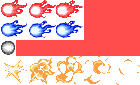
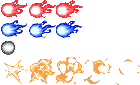
[JOS-57] Projectiles have been merged with the master the bullets now also fire at different rates now too.

diff --git a/FYP_FallenHero/Projectile.cpp b/FYP_FallenHero/Projectile.cpp
@@ -6,8 +6,8 @@ Projectile::Projectile() {		}
 Projectile::Projectile(b2Body* b, sf::Vector2f dir) {
 	b->SetUserData(this);
 	m_box_body = b;
-	
 	m_direction = dir;
+	m_current_state = FIRE;
 
 	init();
 
@@ -15,15 +15,14 @@ Projectile::Projectile(b2Body* b, sf::Vector2f dir) {
 	alineSprite();
 	applySpeed();
 
-	m_current_state = FIRE;
 	m_animator.playAnimation(m_current_state);
 }
 
 Projectile::Projectile(b2Body* b, sf::Vector2f dir, STATE type) {
 	b->SetUserData(this);
 	m_box_body = b;
-
 	m_direction = dir;
+	m_current_state = type;
 
 	init();
 
@@ -31,16 +30,25 @@ Projectile::Projectile(b2Body* b, sf::Vector2f dir, STATE type) {
 	alineSprite();
 	applySpeed();
 
-	m_current_state = type;
 	m_animator.playAnimation(m_current_state);
 }
 
 Projectile::~Projectile() {		}
 
 void Projectile::init() {
+	switch (m_current_state) {
+	case FIRE:
+		m_speed = 15.0f;
+		break;
+	case RED:
+		m_speed = 20.0f;
+		break;
+	case BLUE:
+		m_speed = 25.0f;
+		break;
+	}
 	m_body_active = true;
 	can_despawn = false;
-	m_speed = 15.0f;
 	m_spawn_point = vHelper::toSF(getBody()->GetPosition());
 
 	if (m_direction == sf::Vector2f(1, 0))	setScale(-1, 1);

diff --git a/FYP_FallenHero/ProjectileManager.cpp b/FYP_FallenHero/ProjectileManager.cpp
@@ -53,7 +53,7 @@ void ProjectileManager::cull() {
 
 void ProjectileManager::update(FTS fts) {
 	for (Projectile* p : m_projectiles) {
-		if (vHelper::distance(p->m_spawn_point, p->getPosition()) > 5000.0f) {
+		if (vHelper::distance(p->m_spawn_point, p->getPosition()) > 1000.0f && p->isAlive()) {
 			p->Die();
 			cLog::inst()->print(0, "ProjectileManager", "Bullet has gone too far and has been destructed.");
 		}

diff --git a/FYP_FallenHero/Player.cpp b/FYP_FallenHero/Player.cpp
@@ -169,7 +169,7 @@ void Player::loadMedia() {
 	m_animator.addAnimation(RUN,	frame_run,		sf::seconds(0.5f));
 	m_animator.addAnimation(IDLE,	frame_idle,		sf::seconds(1.5f));
 	m_animator.addAnimation(JUMP,	frame_jump,		sf::seconds(1.2f));
-	m_animator.addAnimation(HIT,	frame_hit,		sf::seconds(1.2f));
+	m_animator.addAnimation(HIT,	frame_hit,		sf::seconds(0.8f));
 }
 
 void Player::update(FTS fts){

diff --git a/FYP_FallenHero/Gem.cpp b/FYP_FallenHero/Gem.cpp
@@ -38,7 +38,7 @@ void Gem::loadMedia(){
 		m_texture_rect = sf::IntRect{ 48, 4, 9, 12 };
 		break;
 	case R_100:
-		m_texture_rect = sf::IntRect{ 67, 7, 13, 3 };
+		m_texture_rect = sf::IntRect{ 67, 7, 13, 9 };
 		break;
 	case B_150:
 		m_texture_rect = sf::IntRect{ 86, 3, 17, 13 };

diff --git a/FYP_FallenHero/Projectile.hpp b/FYP_FallenHero/Projectile.hpp
@@ -68,6 +68,7 @@ public:
 
 	void applySpeed();
 	bool getBoolDirection();
+	
 };
 
 #endif
